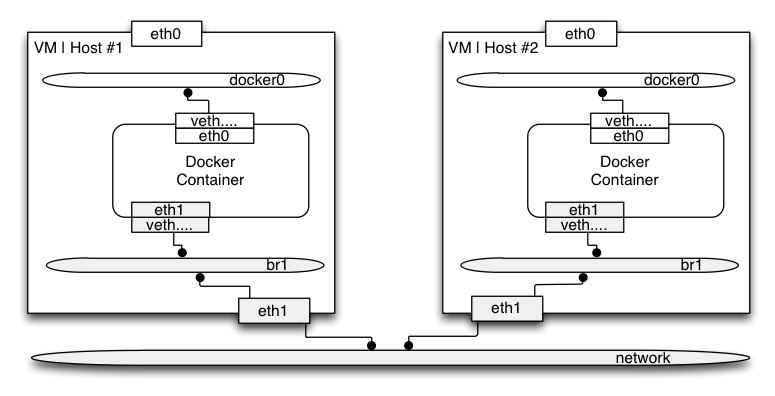
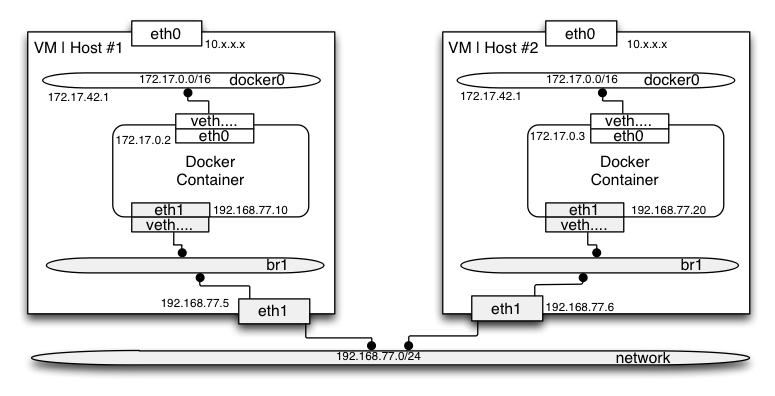
updated

diff --git a/_drafts/docker-entschlusselt-netzwerk-teil-2.md b/_drafts/docker-entschlusselt-netzwerk-teil-2.md
@@ -17,26 +17,24 @@ keywords:
   - pipework
 ---
 
-Im [ersten Teil]({% post_url 2014-07-04-docker-entschlusselt-netzwerk %}) von "Docker entschlüsselt: Netzwerk" haben wir gesehen,
+Im ersten Teil
+von "Docker entschlüsselt: Netzwerk" haben wir gesehen,
 wie der Docker-Daemon Netzwerkinterfaces, die `docker0`-Bridge und die
 Kommunikation der Container nach außen und untereinander managed.
 
 Im zweiten Teil sollen nun die Grundlagen geschaffen werden, damit Docker-Container
 auch über Host-Grenzen hinweg kommunizieren können. Dafür gibt es mehrere
-Möglichkeiten, wir wählen diejenige, welche mit der Standardkonfiguration
+Möglichkeiten (z.B. die Default-Bridge `docker0` an ein externes Interface anzuschließen oder
+  das iptables-Regelwerk zu erweitern), wir wählen diejenige, welche mit der Standardkonfiguration
 des Docker-Daemon funktioniert.
 
-.. - `Welche anderen Möglichkeiten gibt es noch?`
-
-## Der Plan: Neue Bridges anlegen
+## Der Plan: Eine neue Bridge anlegen
 
 Ziel ist es, auf zwei virtuellen Maschinen je einen Docker Container zu instanziieren.
 Dieser Container wird mit einem neuen `eth1` Netzwerkinterface versorgt, das über
 eine eigene `br0` Netzwerk-Bridge mit einem `eth1` Netzwerkinterface des Hosts verbunden ist:
 
 ![docker_network_2vms.png]({{ site.BASE_PATH }}/assets/images/docker_network_2vms.png)
-
-  - `Ìp Addressen auf die Netzwerke schreiben`
 
 ## Voraussetzungen
 
@@ -114,14 +112,14 @@ Um mit dem Docker-Containern zu experimentieren, ziehen wir das Ubuntu-Image:
 
 ```bash
 $ sudo -i
-# docker pull ubuntu:latest
+~# docker pull ubuntu:latest
 ```
 
 Und instanziieren einen neuen Docker-Container, lassen ihn im Vordergrund geöffnet.
 
 
 ```bash
-# docker run -t -i ubuntu:latest /bin/bash
+~# docker run -t -i ubuntu:latest /bin/bash
 ```
 
 Um das Ziel zu erreichen, benötigt jeder Container ein neues Netzwerkinterface.
@@ -146,18 +144,18 @@ Also auf den VMs kann pipework folgendermassen installiert werden:
 
 ```bash
 $ sudo -i
-# git clone https://github.com/jpetazzo/pipework
-# cd pipework
+~# git clone https://github.com/jpetazzo/pipework
+~# cd pipework
 
-# # Wir benötigen die Container-ID
-# docker ps
+~# # Wir benötigen die Container-ID des Containers, den wir erweitern wollen
+~# docker ps
 ....
-# CID=<Container-ID einsetzen>
+~# CID=<Container-ID einsetzen>
 
-# # Jetzt geben wir dem Container ein neues Interface, mit einer IP-Adresse
-# ./pipework br0 $CID 192.168.77.10/24
+~# # Jetzt geben wir dem Container ein neues Interface, mit einer IP-Adresse
+~# ./pipework br0 $CID 192.168.77.10/24
 bzw. auf der zweiten VM:
-# ./pipework br0 $CID 192.168.77.20/24
+~# ./pipework br0 $CID 192.168.77.20/24
 ```
 
 In der (noch offenen, s.o.) Container-Shell lässt sich das nachprüfen:
@@ -177,7 +175,7 @@ Auf dem Host lässt sich der Zustand der Bridge anzeigen:
 
 
 ```bash
-# brctl show
+~# brctl show
 bridge name	bridge id		STP enabled	interfaces
 br0		8000.0800273bcbbb	no	  pl5330eth1
 ```
@@ -194,9 +192,9 @@ auf dem Host und in den Container anzeigen:
 
 
 ```bash
-# git clone https://github.com/aschmidt75/docker-network-inspect
-# cd docker-network-inspect/lib/
-# ./docker-network-inspect.rb $CID
+~# git clone https://github.com/aschmidt75/docker-network-inspect
+~# cd docker-network-inspect/lib/
+~# ./docker-network-inspect.rb $CID
 CONTAINER 6437709a4ea2
 + PID 5330
 + INTERFACES
@@ -220,8 +218,8 @@ In den VMs verbinden wir das jeweilige `eth1` mit der Bridge `br0`
 
 
 ```bash
-# brctl addif br0 eth1
-# brctl show br0
+~# brctl addif br0 eth1
+~# brctl show br0
 bridge name	bridge id		STP enabled	interfaces
 br0		8000.0800273bcbbb	no		eth1
 							pl5330eth1
@@ -234,7 +232,7 @@ Im Container selber lässt sich nun die IP des jeweils anderen Docker-Containers
 Im Docker-Container auf der `docker-test1`-VM hilft folgender Test:
 
 ```bash
-# ping 192.168.77.20
+~# ping 192.168.77.20
 PING 192.168.77.20 (192.168.77.20) 56(84) bytes of data.
 64 bytes from 192.168.77.20: icmp_seq=1 ttl=64 time=0.364 ms
 64 bytes from 192.168.77.20: icmp_seq=2 ttl=64 time=0.524 ms
@@ -247,14 +245,14 @@ rtt min/avg/max/mdev = 0.364/0.444/0.524/0.080 ms
 Im Docker-Container auf der `docker-test2`-VM hilft folgender Test:
 
 ```bash
-# ping 192.168.77.10
+~# ping 192.168.77.10
 PING 192.168.77.10 (192.168.77.10) 56(84) bytes of data.
 64 bytes from 192.168.77.10: icmp_seq=1 ttl=64 time=0.401 ms
 64 bytes from 192.168.77.10: icmp_seq=2 ttl=64 time=0.675 ms
 ^C
 --- 192.168.77.10 ping statistics ---
 2 packets transmitted, 2 received, 0% packet loss, time 999ms
-rtt min/avg/max/mdev = 0.401/0.538/0.675/0.137 ms```
+rtt min/avg/max/mdev = 0.401/0.538/0.675/0.137 ms
 ```
 
 ## Fazit

diff --git a/_drafts/docker-entschlusselt-netzwerk.md b/_drafts/docker-entschlusselt-netzwerk.md
@@ -162,7 +162,8 @@ MASQUERADE  all  --  172.17.0.0/16       !172.17.0.0/16
 
 In der Postrouting-Chain gibt es einen Masquerade-Eintrag. Dabei setzt der Host Paketen, die für die Außenwelt bestimmt sind, die eigene IP des ausgehenden Interfaces ein, sodass die Antworten später auch zurückgeroutet werden können.
 
-Mit dem Aufruf von `traceroute` im Docker-Container sieht man, dass alle Netzpakete automatisch über die IP des
+Mit dem Aufruf eines traceroute-Tools (hier `mtr-tiny`, kann auch ein anderes Tool sein) im Docker-Container sieht man,
+dass alle Netzpakete automatisch über die IP des
 Hosts geroutet werden, die an der `docker0`-Bridge hängt (172.17.42.1). Da die Bridge nicht am `eth0` des Host hängt,
 gibt es keine direkten Weg nach draußen. Aber das IP-Masquerade und das Routing auf dem Host sorgen dafür, dass der
 nächste (2.) Hop die `eth0` auf dem Host ist (10.0.2.2). Danach geht es weiter über die Netzinfrastruktur, an der
